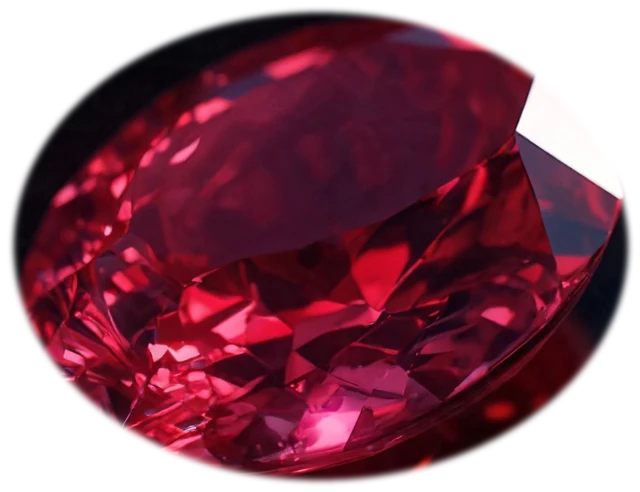
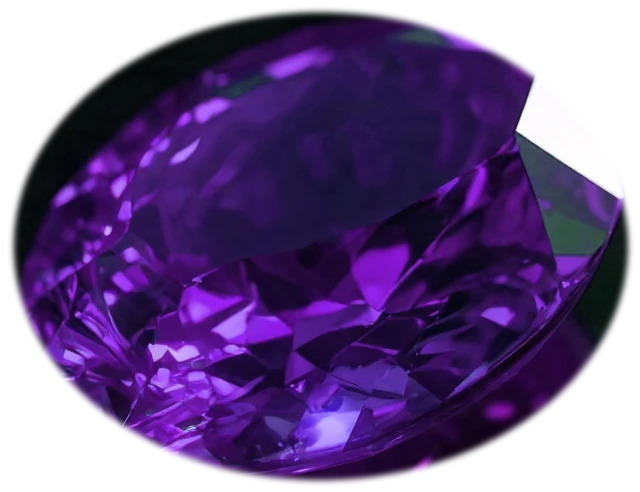
Add files via upload

diff --git a/lobby/cave.js b/lobby/cave.js
@@ -1,17 +1,17 @@
 // =====================================================================
-// cave.js (357 lines) — the Lobby: the front door of the site. A great slab of white marble (slab.webp, from a Kindroid
+// cave.js (372 lines) — the Lobby: the front door of the site. A great slab of white marble (slab.webp, from a Kindroid
 // image) floats in deep space, glowing rings and runes carved into its top. Three rubies hover over it, each a portal:
-//   the dark dome ruby on the left    -> the Table Room (checkers)
+//   the checker piece on the left (a ruby dome on a black stone disc) -> the Table Room (checkers)
 //   the round glowing ruby in the middle, over the rings -> the Doodle Gallery
 //   the faceted ruby on the right     -> the Game Room
 // Behind it all, three nebula pictures (sky1, sky2, sky3) drift at their own speeds, layered so the dark gaps in the
 // nearer ones show the farther ones through. Stars twinkle over them, and little motes of light rise from the rings.
+// A moment after the Lobby appears, each one's name fades in above it in glowing letters, brightening when you point at it.
 // Pick your name, then touch a ruby. It glows up, the screen floods with white from it, and while it's all white that
 // room's code loads (a little snowflake turns in the bottom left corner). Then the white fades and you're in the room.
 // Coming back through a room's portal, the Lobby fades in from black. On every load a little tag pops up for a few
 // seconds with the version of each room's files your browser has (each file says its version on a "VERSION" line).
-// No names float over anything: people find their way.
-// VERSION 11
+// VERSION 12
 // =====================================================================
 import { sfx } from '../sounds.js';
 import { inCave, joinCave, leaveCave } from '../world.js';   // who's online, everywhere (and you, here in the Lobby)
@@ -25,7 +25,7 @@ const PLACES = {
 const SPOTS = { table: { u: 0.27, v: 0.36 }, gallery: { u: 0.5, v: 0.27 }, game: { u: 0.73, v: 0.34 } };
 const RINGS = { u: 0.5, v: 0.262 };   // the middle of the carved rings
 const SLAB_ASPECT = 1266 / 1600;      // the slab picture's height, as a part of its width
-const GEM_SIZE = 0.15;                // a ruby's width, as a part of the slab's width
+const GEM_SIZE = { table: 0.2, gallery: 0.15, game: 0.15 };   // each one's width, as a part of the slab's width
 const HOVER = 0.075;                  // how high it floats above its spot, as a part of the slab's width
 
 const cv = document.getElementById('cave');
@@ -114,7 +114,7 @@ const slabX = u => sx0 - look.x * SLAB_DRIFT + u * S;
 const slabY = v => sy0 - look.y * SLAB_DRIFT * 0.6 + v * S;   // (v in parts of the slab's width, so it stays in proportion)
 function gemAt(key, t) {   // a ruby's middle and width on screen, bobbing gently (each on its own beat)
   const spot = SPOTS[key], beat = { table: 0, gallery: 2.1, game: 4.2 }[key];
-  const w = S * GEM_SIZE * (hover === key ? 1.08 : 1);
+  const w = S * GEM_SIZE[key] * (hover === key ? 1.08 : 1);
   return { x: slabX(spot.u), y: slabY(spot.v * SLAB_ASPECT) - S * HOVER + Math.sin(t * 1.3 + beat) * S * 0.008, w,
            floor: slabY(spot.v * SLAB_ASPECT) };
 }
@@ -302,6 +302,21 @@ function drawGem(key, t, flash) {
     g.drawImage(img, p.x - p.w / 2, p.y - h / 2, p.w, h);
     g.globalAlpha = 1; g.globalCompositeOperation = 'source-over';
   }
+  // its name, fading in above it a moment after the Lobby appears (one after another), glowing
+  const order = { table: 0, gallery: 1, game: 2 }[key];
+  const fade = clamp((t - 1.2 - order * 0.5) / 1.6, 0, 1);
+  if (fade > 0 && !going) {
+    const size = clamp(S * 0.028, 13, 30);
+    const ty = p.y - h / 2 - size * 0.9 + Math.sin(t * 1.3) * 1.5;
+    g.font = `${size}px Georgia, serif`; g.textAlign = 'center'; g.textBaseline = 'bottom';
+    g.globalAlpha = fade * (0.75 + 0.25 * breathe + (hover === key ? 0.25 : 0));
+    g.shadowColor = hover === key ? 'rgba(255,120,110,1)' : 'rgba(255,70,60,0.9)';
+    g.shadowBlur = size * (hover === key ? 1.1 : 0.7);
+    g.fillStyle = '#ffe9e4';
+    g.fillText(PLACES[key].name, p.x, ty);
+    g.shadowBlur = size * 0.25; g.fillText(PLACES[key].name, p.x, ty);   // (a second pass: a crisp core in the glow)
+    g.shadowBlur = 0; g.globalAlpha = 1;
+  }
 }
 
 let raf = 0, last = performance.now();
@@ -353,5 +368,5 @@ if (TEST_ROOM && PLACES[TEST_ROOM]) {
   loadRoom();
 } else raf = window.requestAnimationFrame(frame);
 // =====================================================================
-// END OF cave.js (357 lines)
+// END OF cave.js (372 lines)
 // =====================================================================
